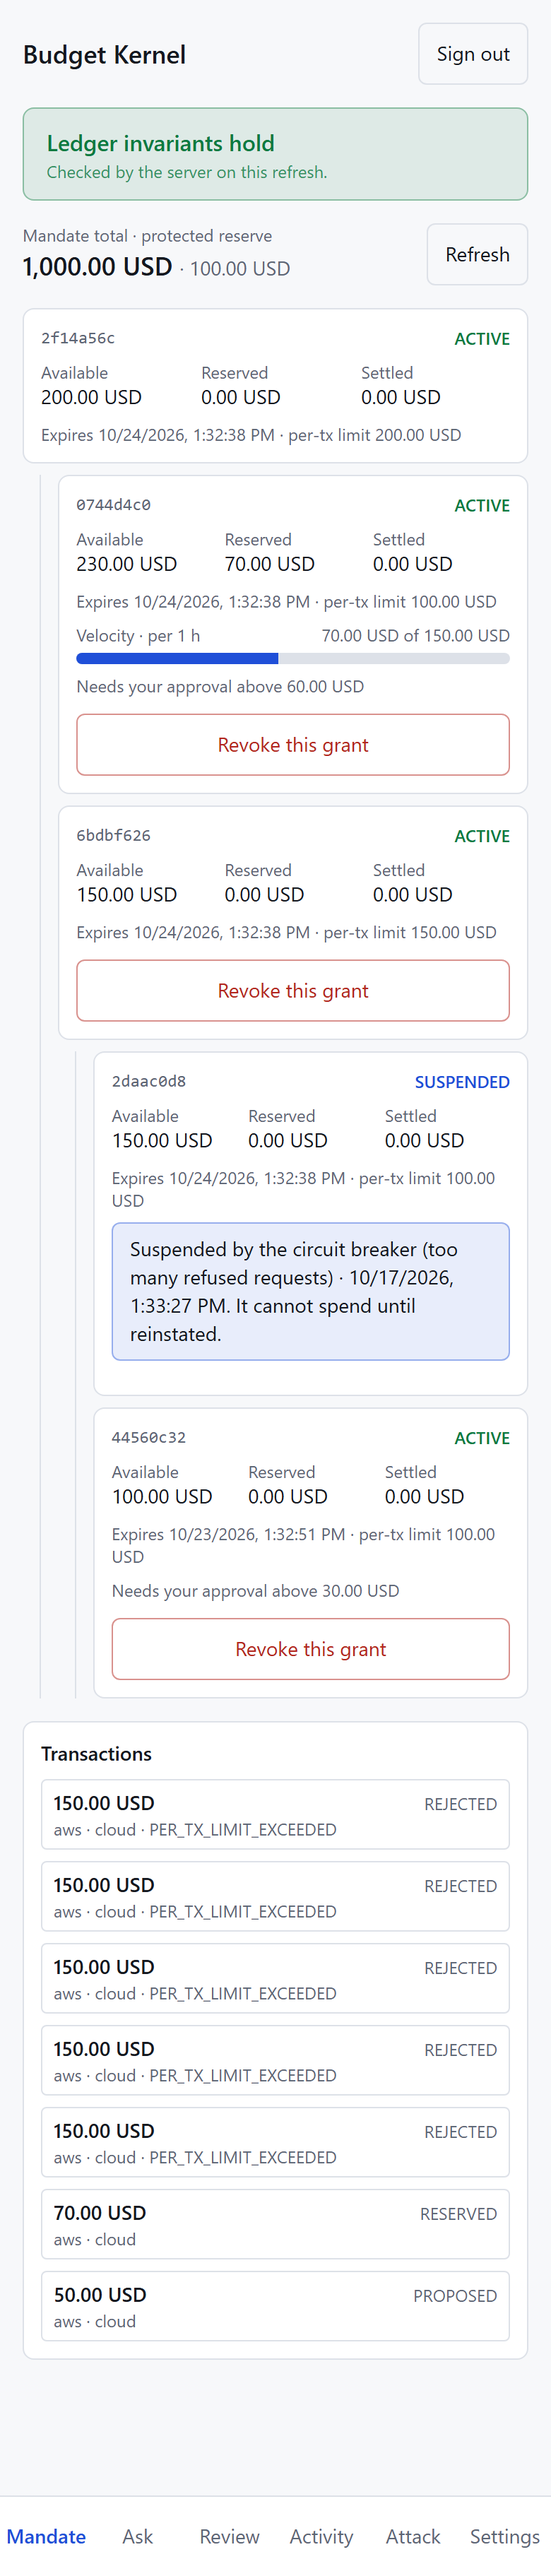
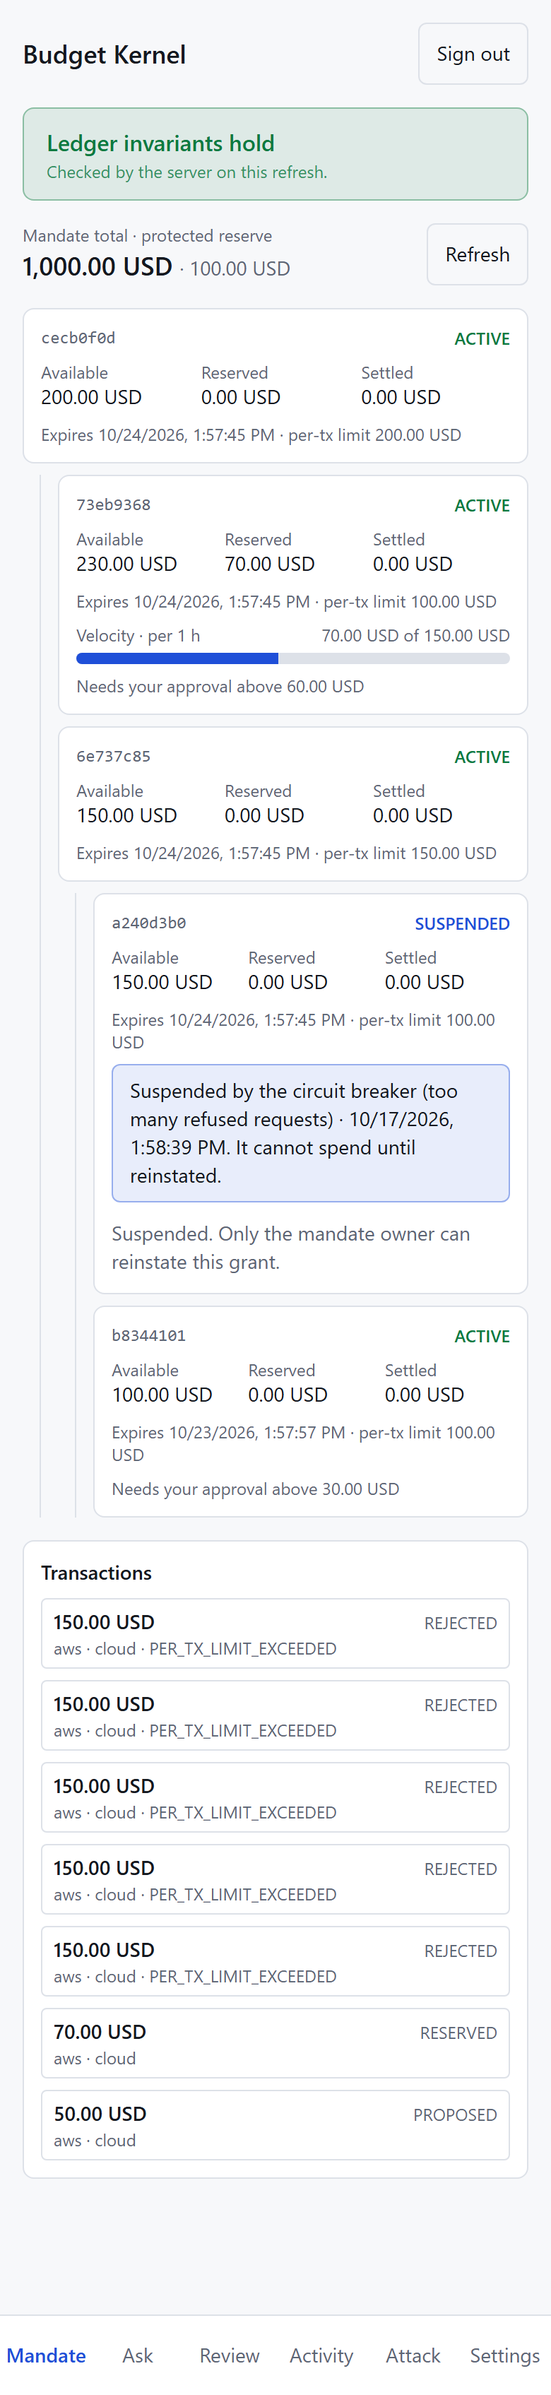
BK-413 follow-ups: record, screenshots 07 and 19, changelog

diff --git a/docs/submission/CLICKTHROUGH_BK413.md b/docs/submission/CLICKTHROUGH_BK413.md
@@ -40,10 +40,10 @@ Also checked: no horizontal scroll at 390 px on the mandate and settings screens
 |---|---|---|
 | 01-04 | Owner signs in (integrity badge green), agent asks 70.00 USD (held), owner approves | As before. Badge: "History intact" with a record count and head. |
 | 05, 05a | Five refused requests (`PER_TX_LIMIT_EXCEEDED`), fifth says "this refusal suspended the grant" | Grant shows SUSPENDED by the circuit breaker. |
-| 07 (replaced) | **Agent's own view** of its suspended grant | **No Reinstate button** (0 buttons counted). Suspended banner shown. |
+| 07 (replaced, updated by the follow-up) | **Agent's own view** of its suspended grant | **No Reinstate button** (0 counted). After the follow-up it also shows "Suspended. Only the mandate owner can reinstate this grant." |
 | 18 (new) | **Ancestor holder (manager)** looks at the suspended grant | **No Reinstate button.** Text: "Suspended. Only the mandate owner can reinstate this grant." |
 | 08, 09 (replaced) | **Owner** reinstates, with confirmation | Works: grant active again, strike count reset. |
-| 19 (new) | Manager clicks Approve on a held request | Red message "Only the mandate owner can do this." (server 403 `NOT_OWNER`, now friendly text) |
+| 19 (new, updated by the follow-up) | Manager opens Review with a held request in its subtree | No Approve or Deny buttons; text "Waiting for the mandate owner. Only the owner can approve or deny." Before the follow-up the buttons showed and a click returned 403 `NOT_OWNER`, displayed as "Only the mandate owner can do this." |
 | 20 (new) | Two tabs on one key click "Confirm rotate" at the same moment | The loser shows "This key was already rotated. Sign in with the new key." (server 409 `KEY_ALREADY_ROTATED`). A real race, reproduced on the first attempt, not an intercepted response. |
 | 13 | Integrity after everything | Still intact (21 records), "Not anchored on-chain yet" |
 | 14, 15, 16, 17 | 429, key rotation, expired key, disabled principal | Unchanged and working: "Wait 1 s", new key shown once and old key then 401, expired message shown once, dropped to sign-in with "disabled" |
@@ -55,3 +55,9 @@ No horizontal scroll at 390 px on the owner, agent and manager mandate views or 
 2. **Review tab shows Approve/Deny to a non-owner.** The manager sees held requests in its subtree with working-looking buttons; the server refuses with `NOT_OWNER` (screenshot 19). Safe, but the buttons could be hidden for non-owners. Not changed.
 3. **Not covered: the on-chain anchor link.** The real anchor (tx `0xcb1ba8f8...78e2e`) lives in the production `bk` schema, and my local schema has no anchor, so the badge shows "Not anchored on-chain yet". Re-check against the shared API once the lead gives its URL.
 4. **Gotcha for the next person.** The rules path only accepts recipients and categories that the grant's own scope lists, so "pay 10 USD to github for cloud" on a grant that lists only `aws` goes to the model, not the kernel. A model failure (`PROVIDER_FAILED`) records nothing, so no strike. Use a limit breach ("pay 150 USD to aws for cloud" against a 100.00 limit) to trip the breaker through the Ask screen.
+
+**Follow-up (branch `daniel/BK-413-ui-followups`, stacked on this one).** Findings 1 and 2 above are fixed, and a third found while checking them:
+1. `SuspendControl`: any non-owner viewer of a suspended grant (the holder itself, not only an ancestor) now sees the "only the mandate owner can reinstate" text. Verified live: agent sees 1 explanation and 0 Reinstate buttons.
+2. `ReviewView`: Approve and Deny are shown to the mandate owner only; others see "Waiting for the mandate owner." Verified live: 0 Approve buttons for the manager. `NOT_OWNER` text stays in `describeError` for the case where the UI is stale.
+3. New: the agent's view showed **Revoke this grant** on every grant, including grants above its own. The server refuses (revoke needs the owner or a strict ancestor holder), so it was safe but misleading. `MandateView` now shows the kill switch only where `canManage` is true, the server's own rule; owners and ancestor holders see no change.
+After the follow-up the screenshot-19 NOT_OWNER click is no longer reachable from the UI, which is why 19 changed. `tsc`, lint and build clean; the same live run shows no horizontal scroll at 390 px and the other stages unchanged.

diff --git a/memory/CHANGELOG.md b/memory/CHANGELOG.md
@@ -53,3 +53,4 @@ This is a concise record of meaningful project changes. Detailed per-session not
 - 2026-10-17: Run 5 recorded (memory/evaluation/RESULTS.md): live config B 106/131 (v1) and 107/131 (v2), 0 unauthorized, 0 wrong-value; no gain on the digit-based datasets (Step 8 cannot show there), one new fail-closed miss on v2 (TEX-094, model noise); a 7-request live probe shows word amounts and aliases resolving and the negative cases failing closed. Offline run found the eval runner had not bound its settlement service since BK-303 (kernel scripts 124/134, 2 cascade 'unauthorized'); runner fixed, kernel scripts back to 134/134, 0 unauthorized.
 - 2026-10-17: daniel: BK-413 final check on merged main (own local API, own schema, 390 px, real owner/manager/agent keys). Added friendly text for `NOT_OWNER` and `KEY_ALREADY_ROTATED` in `frontend/lib/api.ts`. Reinstate is owner-only in the UI: agent and ancestor holder see no button (ancestor sees the explanation). Replaced screenshots 07-09, added 18 (owner-only text), 19 (NOT_OWNER on review), 20 (real KEY_ALREADY_ROTATED race). tsc, lint, build clean. Findings in docs/submission/CLICKTHROUGH_BK413.md (agent does not see the explanation text; Review tab shows buttons to non-owners; anchor link not checked locally).
 - 2026-10-17: daniel: deck draft 2 (docs/submission/DECK_DRAFT.md, 11 slides, about 11 min before cuts) and technical document draft 2 (docs/submission/TECH_DOC_DRAFT.md), numbers from RESULTS.md Runs 1-5, this changelog and evidence/. Flags for the lead: assessment sections 1 and 8 predate the live-model runs; Run 3 latency predates the hash chain and breaker; config C not run.
+- 2026-10-17: daniel: BK-413 UI follow-ups (stacked on PR 11): non-owners see 'only the owner can reinstate' on a suspended grant, Review shows Approve/Deny to the owner only, kill switch only where the viewer can manage (server rule). Verified live at 390 px with owner/manager/agent keys; tsc, lint, build clean. Screenshots 07 and 19 updated.
